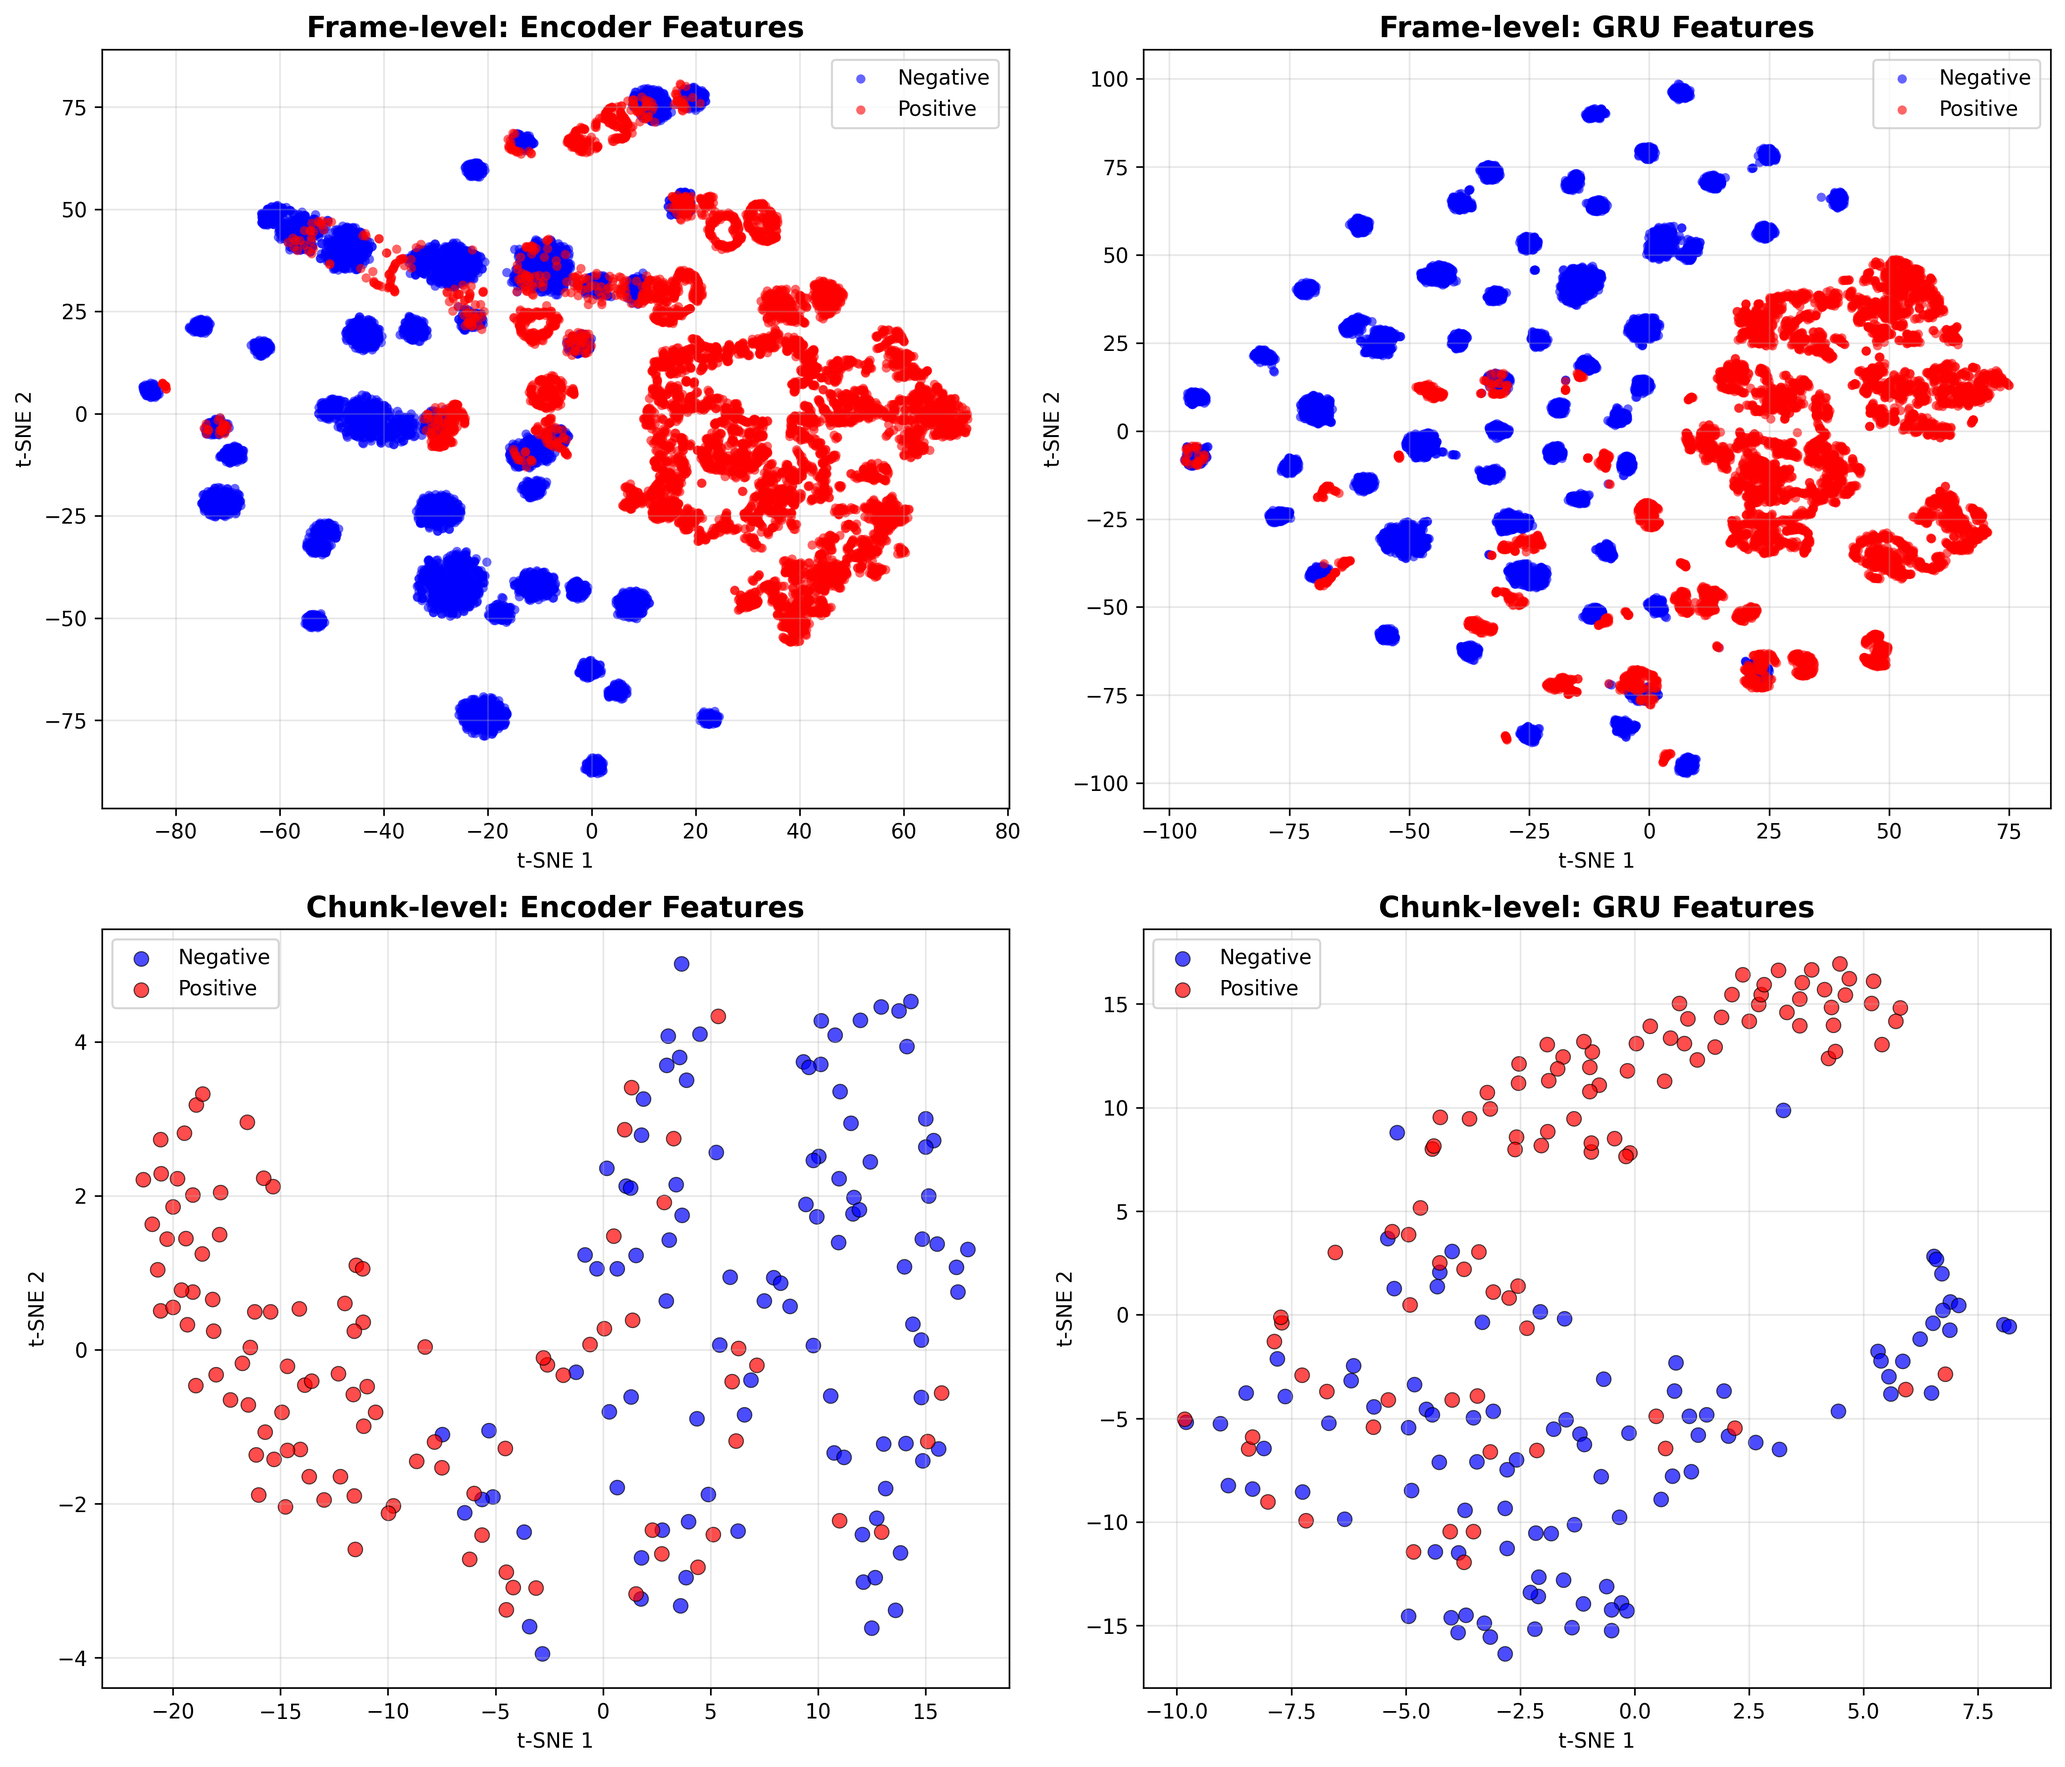
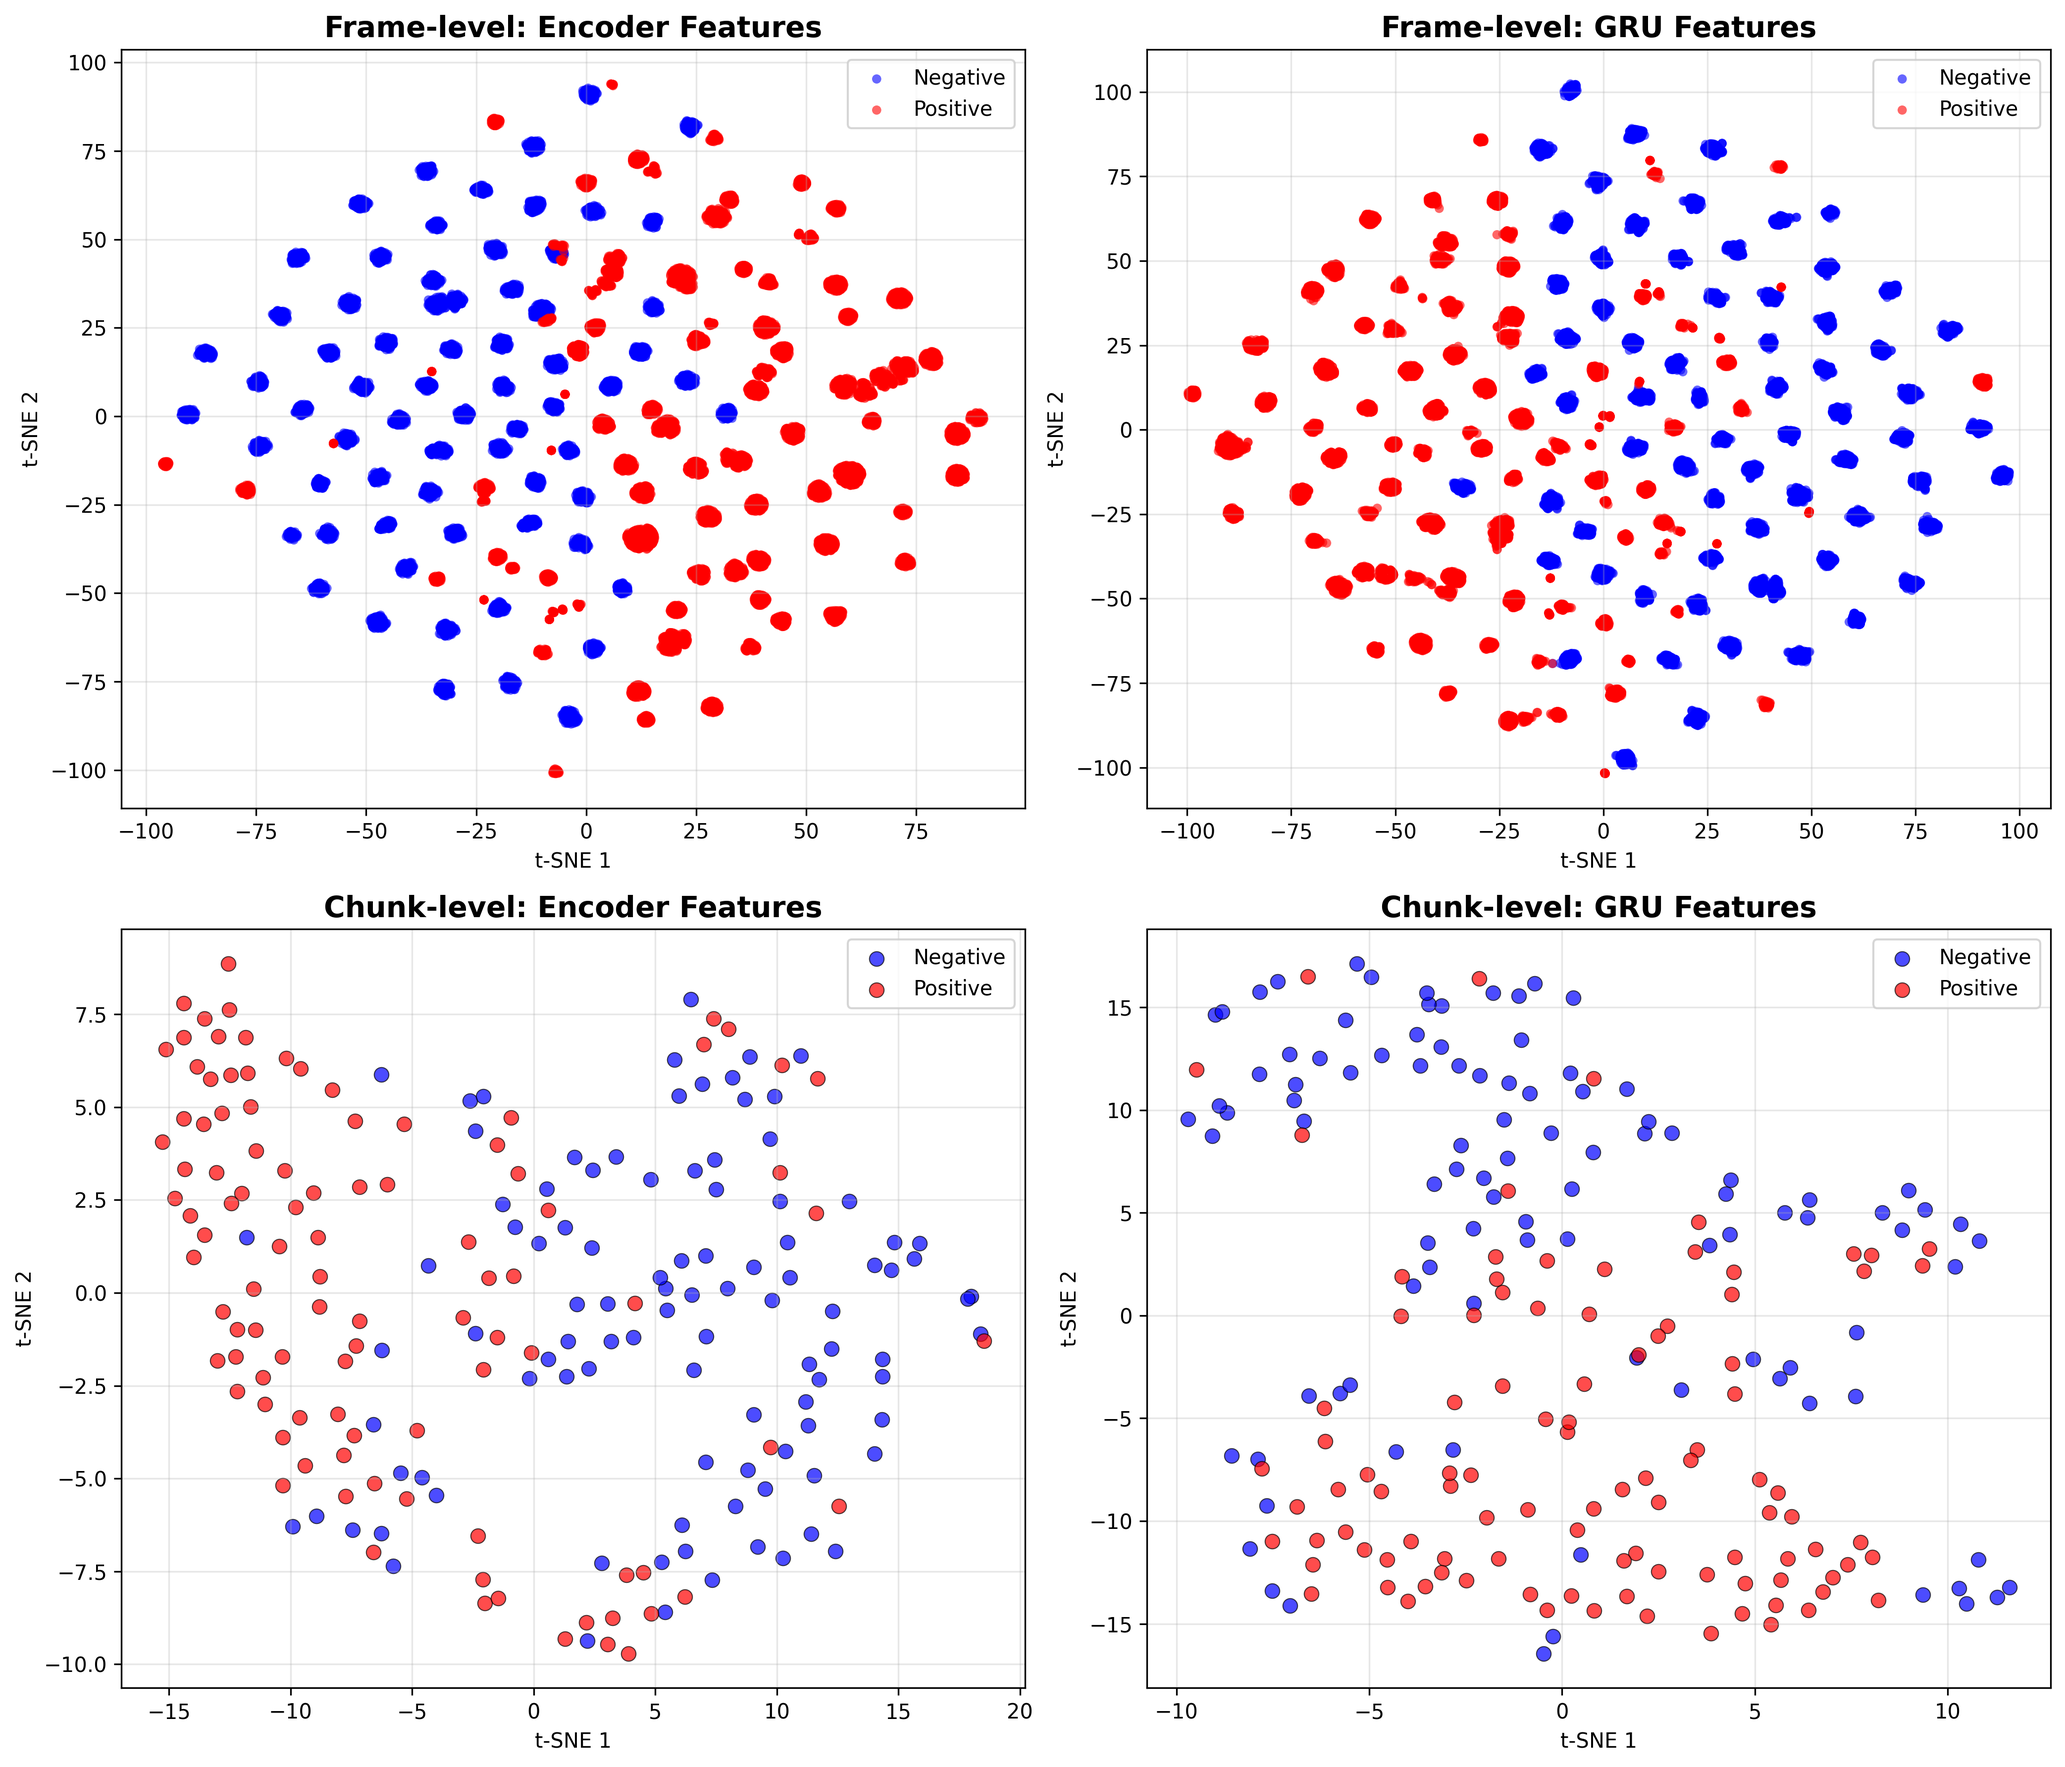
Added new image

diff --git a/model/backbone.py b/model/backbone.py
@@ -31,31 +31,31 @@ class ExtractEncoder(nn.Module):
             #nn.BatchNorm1d(512),
             #LayerNorm1d(512),
             #RMSNorm1d(512),
-            nn.GroupNorm(num_groups=64, num_channels=512),
+            nn.GroupNorm(num_groups=1, num_channels=512),
             nn.ReLU(inplace=True),
             nn.Conv1d(512, 512, kernel_size=8, stride=5, padding=0, bias=False),
             #nn.BatchNorm1d(512),
             #LayerNorm1d(512),
             #RMSNorm1d(512),
-            nn.GroupNorm(num_groups=64, num_channels=512),
+            nn.GroupNorm(num_groups=1, num_channels=512),
             nn.ReLU(inplace=True),
             nn.Conv1d(512, 512, kernel_size=4, stride=3, padding=0, bias=False),
             #nn.BatchNorm1d(512),
             #LayerNorm1d(512),
             #RMSNorm1d(512),
-            nn.GroupNorm(num_groups=64, num_channels=512),
+            nn.GroupNorm(num_groups=1, num_channels=512),
             nn.ReLU(inplace=True),
             nn.Conv1d(512, 512, kernel_size=3, stride=1, padding=0, bias=False),
             #nn.BatchNorm1d(512),
             #LayerNorm1d(512),
             #RMSNorm1d(512),
-            nn.GroupNorm(num_groups=64, num_channels=512),
+            nn.GroupNorm(num_groups=1, num_channels=512),
             nn.ReLU(inplace=True),
             nn.Conv1d(512, 512, kernel_size=3, stride=1, padding=0, bias=False),
             #nn.BatchNorm1d(512),
             #LayerNorm1d(512),
             #RMSNorm1d(512),
-            nn.GroupNorm(num_groups=64, num_channels=512),
+            nn.GroupNorm(num_groups=1, num_channels=512),
             nn.ReLU(inplace=True),
         )
 

diff --git a/tsne_vis.py b/tsne_vis.py
@@ -263,7 +263,7 @@ def plot_tsne_grid(encoder_chunk, gru_chunk, encoder_frame, gru_frame,
 
 def main():
     # Configuration
-    method = "GN-64"
+    method = "GN-1"
     CHECKPOINT_PATH = f"/root/stable_pretraining_cpc_sample/checkpoints/{method}/last.ckpt"
     CONFIG_PATH = "configs/cpc.yaml"
     NUM_POSITIVE = 100
